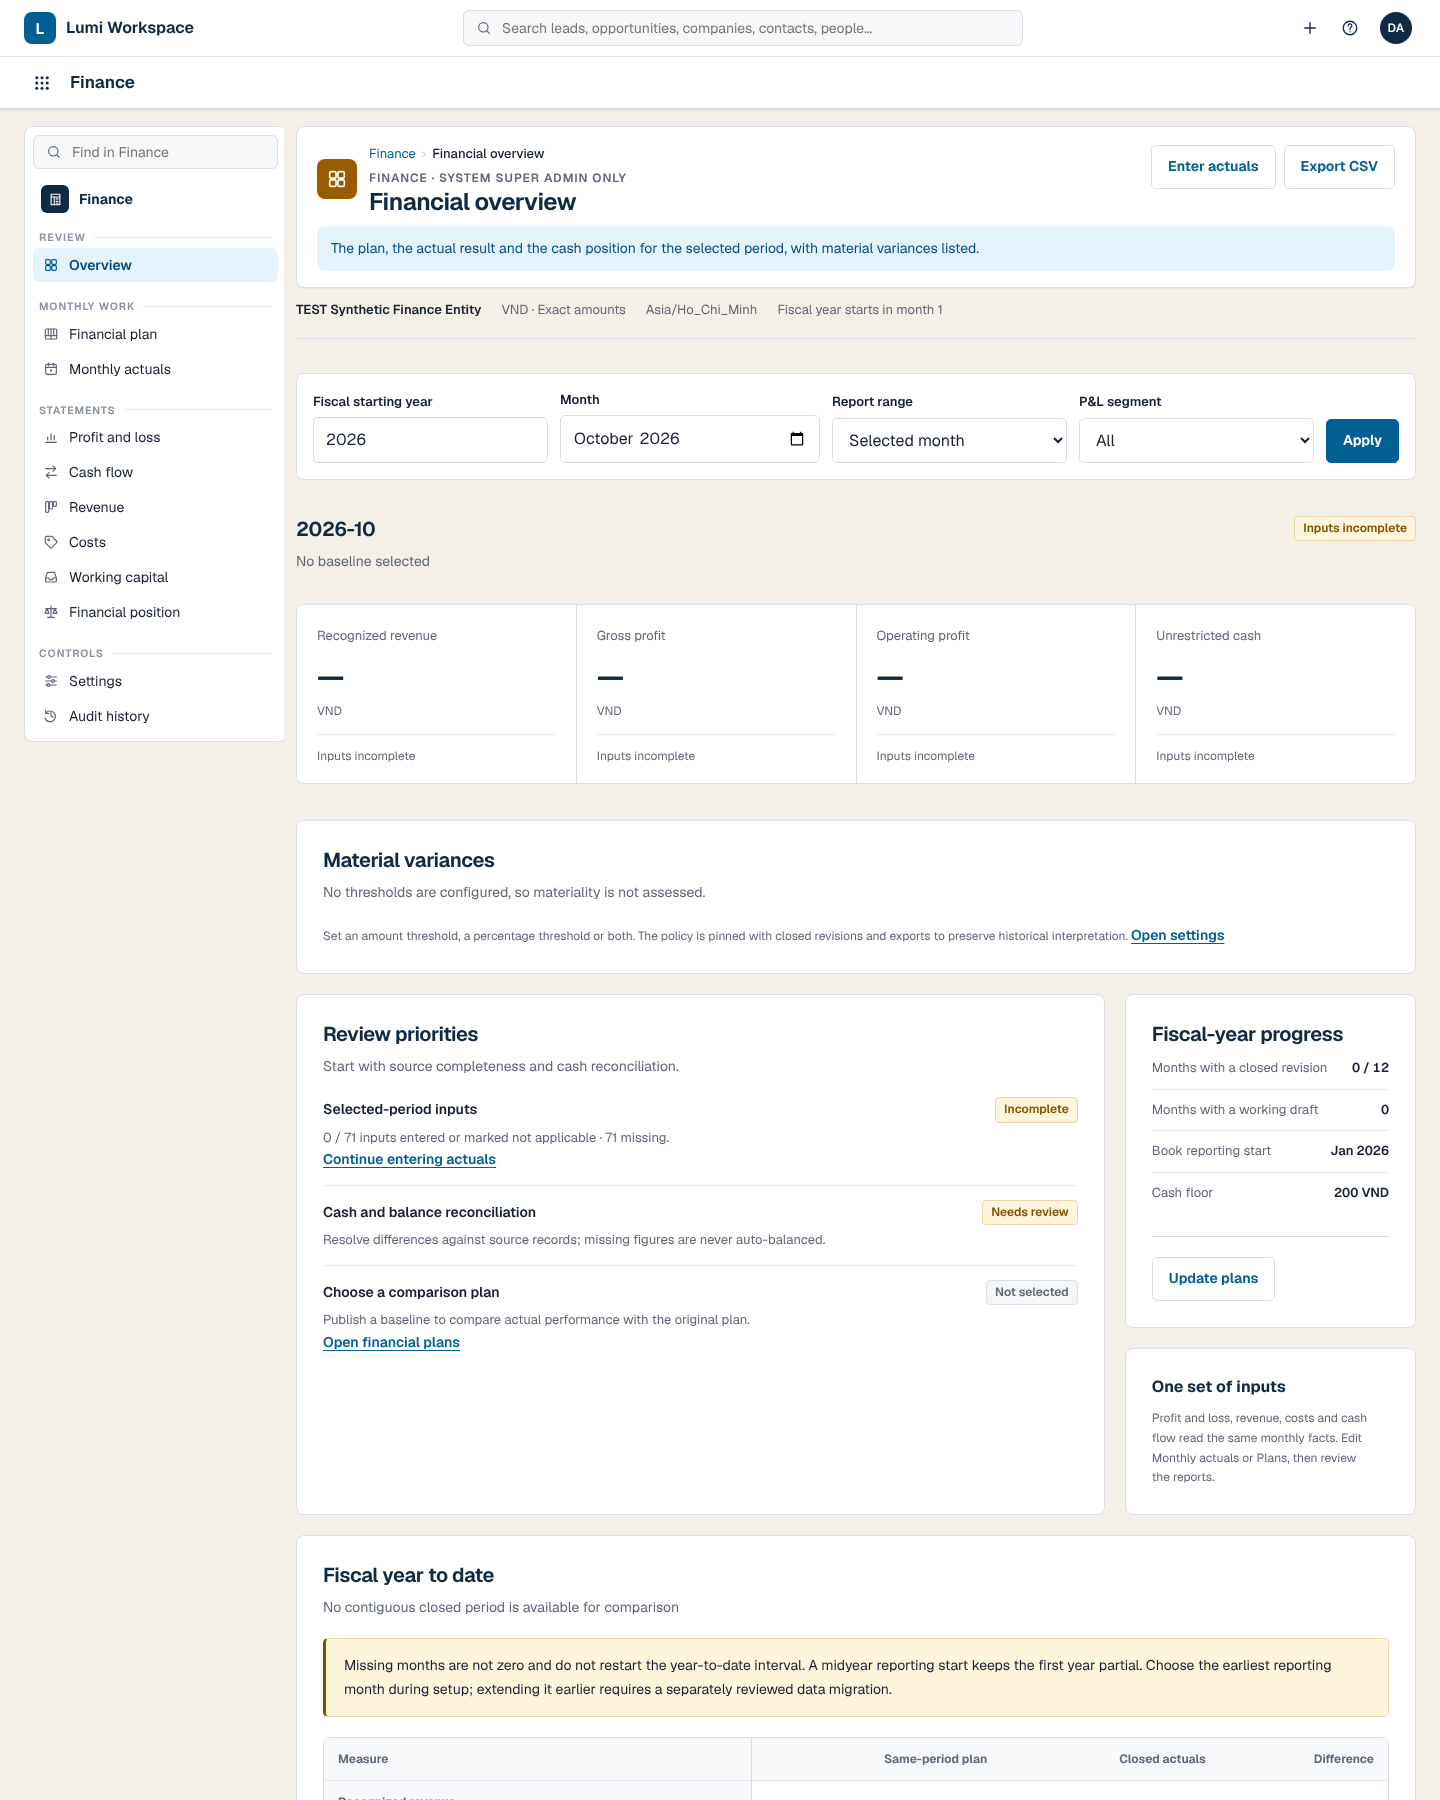
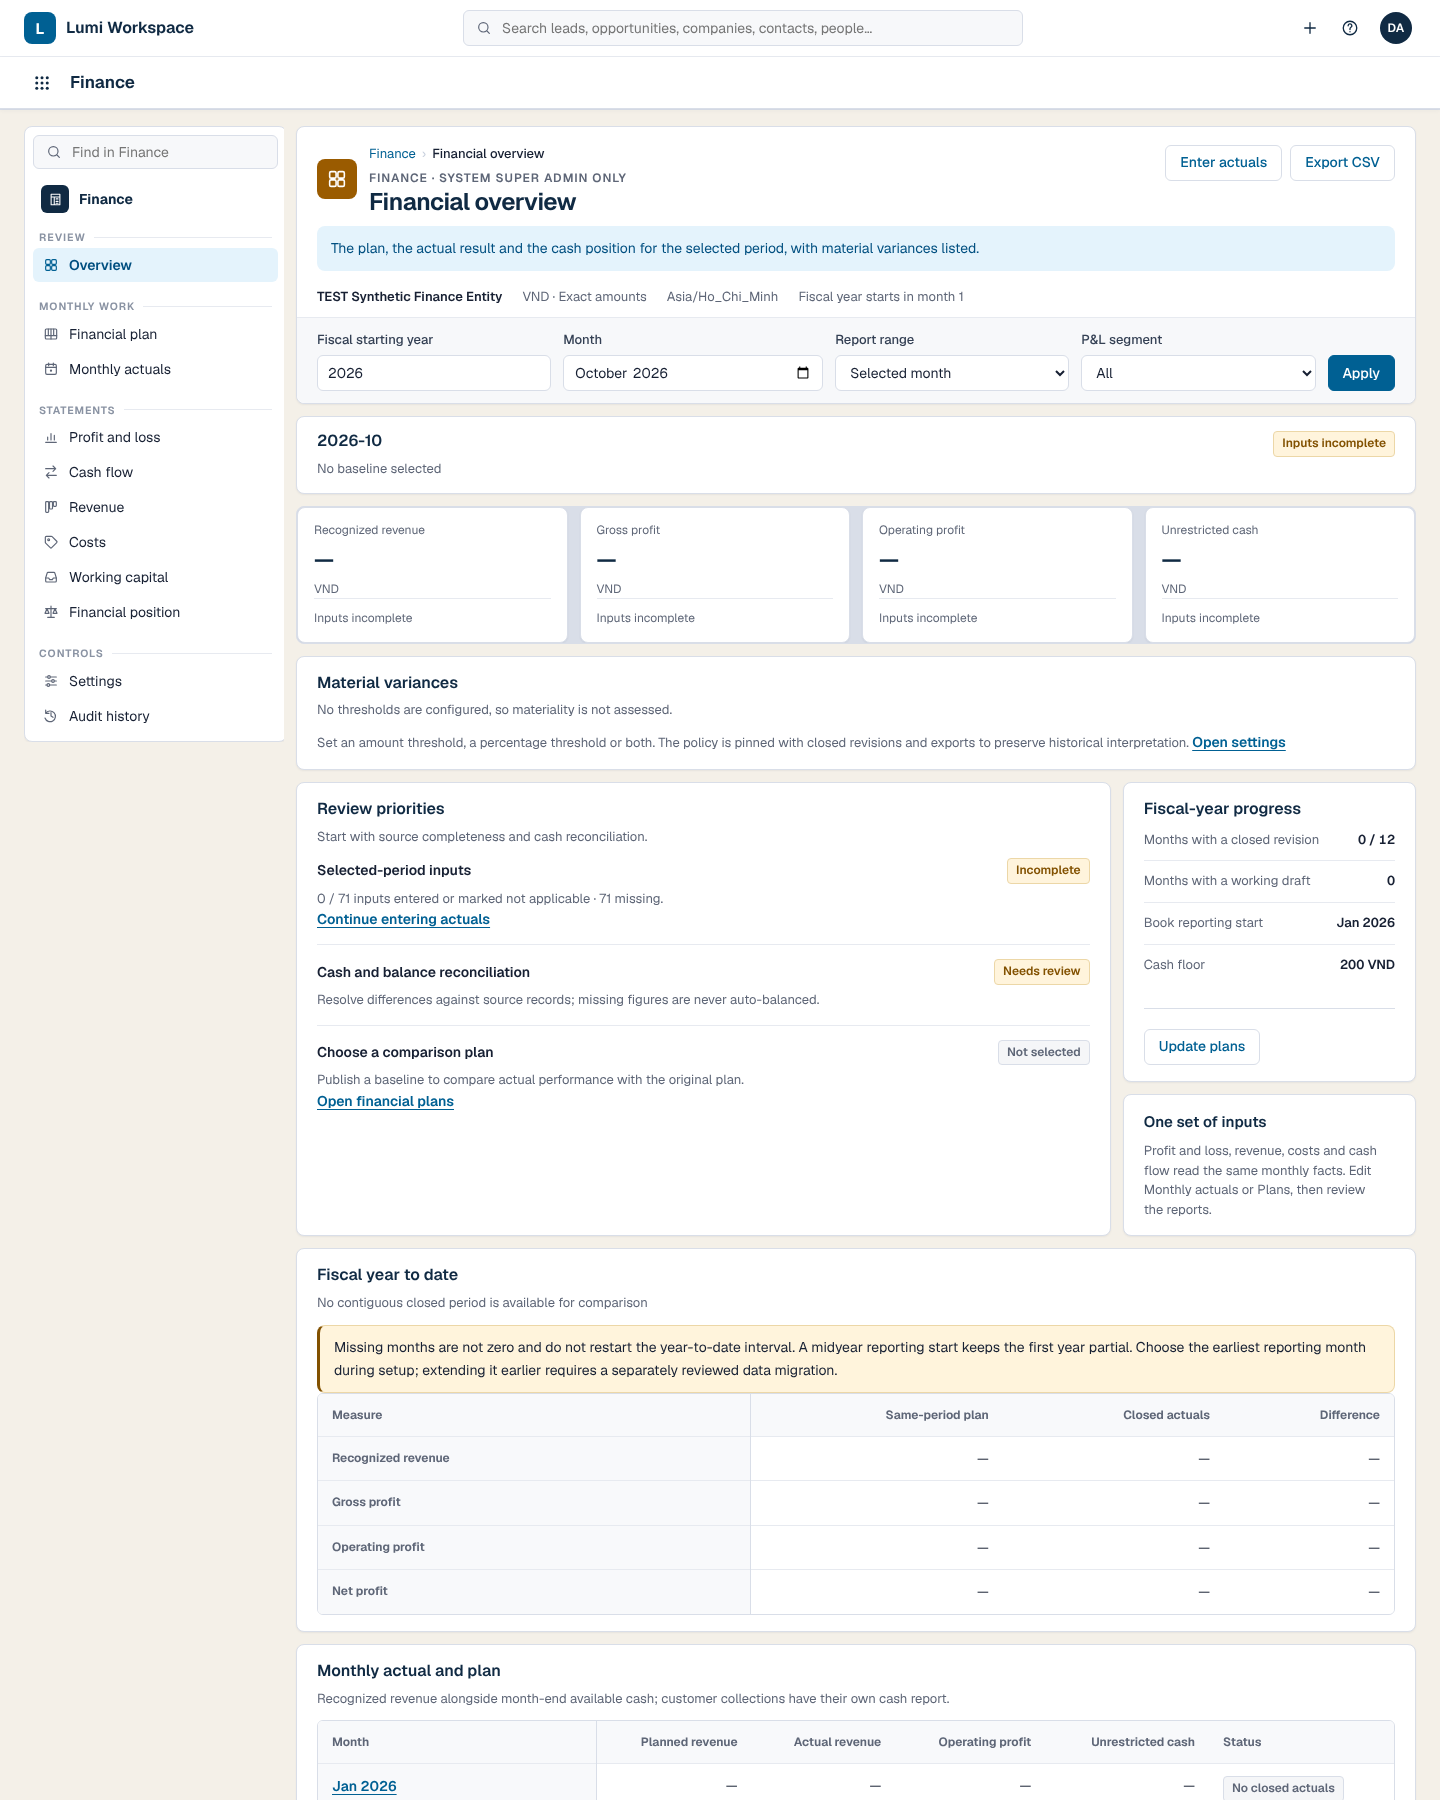
feat(workspace): HRM, Finance and hiring candidate bodies on the kit scale
Integrator review of a37507b: the module bodies kept round-1 scale. One
module layer in record.css puts every HRM, Finance and hiring panel,
heading (16/15px), button (36px), field (40px), notice, row and table on
the kit's scale, and turns any intro line or action row left below the
header into an info note or toolbar panel. HRM pages can pass header
actions, a meta line and a ListToolbar; People uses them with a frozen
DataTable. Job descriptions lose the 30px titles, thick top border and
free paragraphs. Finance moves its scope line and report selection into
the header panel; KPI tiles and section panels use the kit scale.
Candidates filter in the list toolbar under one list-view header.
Fields, routes, permissions and gates are unchanged. Parity shots added.

Claude-Session: https://claude.ai/code/session_014tAzhWoBaDs6EPpE4qVLLr

diff --git a/src/styles/record.css b/src/styles/record.css
@@ -103,16 +103,108 @@
 .ws-setup form.ws-oh-actions, .ws-oh-actions form { display: flex; gap: 8px; align-items: center; margin: 0; }
 .rec-row { display: grid; grid-template-columns: repeat(auto-fit, minmax(min(100%, 340px), 1fr)); gap: 12px; align-items: stretch; }
 
-/* Modules without boards (Tuyển dụng, HRM, Tài chính) */
-.rec-module { display: flex; flex-direction: column; gap: 12px; min-width: 0; }
-.rec-module :is(section.crm-sheet, .md-section, > .crm-sheet) { background: #fff; border: 1px solid #D9DEE8; border-radius: 8px; box-shadow: 0 1px 2px rgba(16, 42, 67, .06); padding: 16px 20px; }
-.rec-module .crm-sheet + .crm-sheet { margin-top: 12px; }
-.rec-module .crm-h2 { font-size: 16px; font-weight: 600; line-height: 1.3; color: #102A43; }
-.rec-module :is(.crm-help, .crm-empty, .crm-row-meta, .crm-list) { font-size: 13px; }
-.rec-module :is(.crm-input, .crm-select) { min-height: 40px; font-size: 15px; }
+/* Modules without boards (Tuyển dụng, HRM, Tài chính): one layer that puts
+   the existing bodies on the kit's scale (workspace.css): white 8px panels,
+   16px panel headings, 14px body, 36px buttons, 40px inputs, kit tables and
+   rows, and no free text below the header. */
+.rec-module { display: flex; flex-direction: column; gap: 12px; min-width: 0; color: #172033; font-size: 14px; line-height: 1.5; }
+.rec-module :is(.crm-sheet, .md-section) { background: #fff; border: 1px solid #D9DEE8; border-radius: 8px; box-shadow: 0 1px 2px rgba(16, 42, 67, .06); padding: 16px 20px; margin: 0; min-width: 0; }
+.rec-module .crm-sheet + .crm-sheet { margin-top: 0; }
+.rec-module .crm-sheet .crm-sheet { box-shadow: none; padding: 12px 14px; }
+.rec-module .crm-grid { gap: 12px; }
+.rec-module :is(.crm-h2, .crm-sheet > h2, .md-section h2) { margin: 0 0 10px; font-size: 16px; font-weight: 600; line-height: 1.3; letter-spacing: 0; color: #102A43; }
+.rec-module :is(.crm-h3, .crm-sheet h3) { margin: 14px 0 6px; font-size: 15px; font-weight: 600; line-height: 1.3; color: #102A43; }
+.rec-module .crm-eyebrow { font-size: 12px; font-weight: 600; letter-spacing: .08em; text-transform: uppercase; color: #5E6677; }
+.rec-module :is(.crm-sheet p, .crm-sheet li, .crm-lede) { font-size: 14px; line-height: 1.5; }
+.rec-module :is(.crm-meta, .crm-help, .crm-empty, .crm-row-meta) { font-size: 13px; color: #5E6677; }
+.rec-module .crm-count { font-size: 12px; }
+/* Buttons at the kit's size: outline by default, filled for the main action. */
+.rec-module .crm-button { height: 36px; min-height: 36px; padding: 0 14px; border-radius: 6px; font-size: 14px; font-weight: 500; line-height: 1; box-shadow: none; }
+.rec-module .crm-button.secondary { background: #fff; border: 1px solid #C8D0DE; color: #006093; }
+.rec-module .crm-button.secondary:hover { background: #F7F8FA; }
+.rec-module .crm-button.small { height: 30px; min-height: 30px; padding: 0 10px; font-size: 13px; }
+.rec-module .crm-button.danger { background: #fff; border: 1px solid #EBA98C; color: #B42318; }
+.rec-module .crm-actions { gap: 8px; }
+/* Fields as in the kit's form grid. */
+.rec-module :is(.crm-field > label, .crm-label, .crm-fieldset > legend) { font-size: 13px; font-weight: 500; line-height: 1.2; color: #344054; }
+.rec-module :is(.crm-input, .crm-select) { height: 40px; min-height: 40px; padding: 0 10px; border: 1px solid #C8D0DE; border-radius: 6px; font-size: 15px; }
+.rec-module .crm-textarea { min-height: 72px; padding: 8px 10px; border: 1px solid #C8D0DE; border-radius: 6px; font-size: 15px; }
+.rec-module .crm-form-grid { gap: 14px 20px; }
+.rec-module .crm-check { font-size: 14px; }
+/* Notices: compact alert bars. */
+.rec-module .crm-notice { margin: 0; padding: 10px 14px; border-radius: 8px; font-size: 14px; line-height: 1.5; }
+.rec-module .crm-notice strong { font-size: 14px; }
+/* Lists as kit rows; tables as kit tables. */
+.rec-module .crm-list { gap: 0; }
+.rec-module .crm-row { padding: 10px 0; border-bottom: 1px solid #E7EAF0; font-size: 14px; }
+.rec-module .crm-row:last-child { border-bottom: 0; }
+.rec-module .crm-row strong, .rec-module .crm-row-title { font-size: 14px; font-weight: 600; color: #102A43; }
+.rec-module :is(.crm-table, .crm-grid-table) { font-size: 14px; }
+.rec-module :is(.crm-table, .crm-grid-table) th { background: #F7F8FA; color: #344054; font-size: 12px; font-weight: 600; line-height: 1.2; text-transform: uppercase; letter-spacing: .04em; padding: 10px; }
+.rec-module :is(.crm-table, .crm-grid-table) td { padding: 10px; }
+.rec-module .crm-facts dt { font-size: 12px; color: #5E6677; text-transform: none; letter-spacing: 0; }
+.rec-module .crm-facts dd { font-size: 15px; font-weight: 600; color: #102A43; }
+.rec-module .crm-disclosure > summary { font-size: 14px; font-weight: 500; }
+.rec-module .crm-badge { font-size: 12px; padding: 3px 8px; border-radius: 10px; }
+/* Record tabs inside HRM (person profile) drawn like the kit's tabs. */
+.rec-module .crm-tabs { display: flex; flex-wrap: wrap; gap: 20px; margin: 0; padding: 0 20px; background: #fff; border: 1px solid #D9DEE8; border-radius: 8px; }
+.rec-module .crm-tabs a { padding: 13px 2px 11px; border-bottom: 3px solid transparent; color: #5E6677; font-size: 14px; font-weight: 500; text-decoration: none; }
+.rec-module .crm-tabs a[aria-current] { border-bottom-color: #006093; color: #102A43; font-weight: 600; }
+/* Nothing floats below the header: a stray intro line becomes the blue info
+   note and a stray action row becomes a toolbar panel. */
+.rec-module > :is(p.crm-meta, p.crm-help, p.crm-lede) { margin: 0; padding: 12px 14px; border-radius: 8px; background: #E4F3FC; color: #004F80; font-size: 14px; line-height: 1.5; }
+.rec-module > :is(div.crm-actions, form.crm-actions) { margin: 0; padding: 12px 20px; background: #fff; border: 1px solid #D9DEE8; border-radius: 8px; box-shadow: 0 1px 2px rgba(16, 42, 67, .06); }
 .rec-module .ws-rec .crm-lede { font-size: 13px; color: #5E6677; margin: 4px 0 0; }
+
+/* Tài chính: its own fn-* blocks on the same scale. */
+.finance.rec-module { gap: 12px; }
+.finance.rec-module .fn-sheet { padding: 16px 20px; border: 1px solid #D9DEE8; border-radius: 8px; box-shadow: 0 1px 2px rgba(16, 42, 67, .06); margin: 0; }
+.finance.rec-module :is(.fn-sheet h2, .fn-sheet-head h2) { font-size: 16px; font-weight: 600; line-height: 1.3; letter-spacing: 0; }
+.finance.rec-module .fn-sheet h3 { font-size: 15px; font-weight: 600; margin: 0 0 8px; }
+.finance.rec-module :is(.fn-sheet-head p, .fn-sheet > p) { font-size: 13px; line-height: 1.5; }
+.finance.rec-module .fn-sheet-head { margin-bottom: 12px; }
+.finance.rec-module :is(.fn-stack, .fn-layout) { gap: 12px; }
+.finance.rec-module .fn-layout + .fn-layout, .finance.rec-module .fn-stack > * + * { margin-top: 0; }
+.finance.rec-module .fn-kpis { gap: 12px; align-items: stretch; }
+.finance.rec-module .fn-kpi { padding: 14px 16px; border: 1px solid #D9DEE8; border-radius: 8px; background: #fff; box-shadow: 0 1px 2px rgba(16, 42, 67, .06); display: flex; flex-direction: column; }
+.finance.rec-module .fn-kpi-label { margin: 0 0 8px; font-size: 12px; }
+.finance.rec-module .fn-kpi-value { font-size: 22px; letter-spacing: -.01em; }
+.finance.rec-module .fn-kpi-meta { margin-top: auto; padding-top: 10px; }
+.finance.rec-module .fn-button { min-height: 36px; padding: 0 14px; border-radius: 6px; font-size: 14px; font-weight: 500; }
+.finance.rec-module .fn-button.small { min-height: 30px; padding: 0 10px; font-size: 13px; }
+.finance.rec-module :is(.fn-input, .fn-select) { min-height: 40px; padding: 0 10px; border-radius: 6px; font-size: 15px; }
+.finance.rec-module .fn-textarea { border-radius: 6px; font-size: 15px; }
+.finance.rec-module .fn-field > :is(label, .fn-label) { font-size: 13px; font-weight: 500; color: #344054; }
+.finance.rec-module .fn-notice { margin: 0; padding: 10px 14px; border-radius: 8px; font-size: 14px; }
+.finance.rec-module .fn-form-section > legend { font-size: 15px; font-weight: 600; padding-bottom: 10px; }
+.finance.rec-module .fn-disclosure > summary { padding: 12px 14px; font-size: 14px; }
+.finance.rec-module .fn-empty { padding: 24px 20px; border: 1px solid #D9DEE8; border-radius: 8px; background: #fff; }
+.finance.rec-module .fn-empty h2 { font-size: 18px; letter-spacing: 0; }
+.finance.rec-module .fn-empty p { font-size: 14px; }
+.finance.rec-module .fn-footnote { margin: 0; padding: 12px 14px; border-radius: 8px; background: #E4F3FC; color: #004F80; font-size: 13px; }
+/* The scope line and the report selection sit inside the header panel as
+   its meta line and list toolbar. */
+.ws-rec .fn-scope { margin: 0; padding: 0 20px 10px; border: 0; font-size: 13px; color: #5E6677; }
+.ws-rec .fn-toolbar { margin: 0; padding: 12px 20px; border: 0; border-top: 1px solid #E7EAF0; border-radius: 0 0 8px 8px; background: #F7F8FA; box-shadow: none; display: flex; flex-wrap: wrap; gap: 10px 12px; align-items: flex-end; }
+.ws-rec .fn-toolbar .fn-field > label { font-size: 12px; font-weight: 500; color: #5E6677; }
+.ws-rec .fn-toolbar :is(.fn-input, .fn-select) { min-height: 36px; height: 36px; padding: 0 10px; font-size: 14px; border-radius: 6px; }
+.ws-rec .fn-toolbar .fn-button { min-height: 36px; }
 
 @media (max-width: 900px) {
   .rec-fields, .rec-cv-cols { grid-template-columns: minmax(0, 1fr); }
   .rec-body { padding-left: 14px; padding-right: 14px; }
 }
+/* Finance: the period heading above the KPI tiles and the month strip on
+   Actuals are panels too. */
+.finance.rec-module > :is(.fn-sheet-head, .fn-periods) { margin: 0; padding: 14px 20px; background: #fff; border: 1px solid #D9DEE8; border-radius: 8px; box-shadow: 0 1px 2px rgba(16, 42, 67, .06); }
+.finance.rec-module > .fn-sheet-head h2 { font-size: 16px; font-weight: 600; letter-spacing: 0; }
+/* Hiring candidates: filters in the list toolbar, stage counts as a chip row. */
+.rec-lfilter { display: flex; flex-wrap: wrap; align-items: flex-end; gap: 8px 10px; }
+.rec-lfilter .crm-field { display: flex; flex-direction: column; gap: 4px; }
+.rec-lfilter .crm-field > label { font-size: 12px; color: #5E6677; font-weight: 500; }
+.rec-lfilter :is(.crm-select, .crm-input) { height: 32px; min-height: 32px; padding: 0 8px; font-size: 14px; border: 1px solid #C8D0DE; border-radius: 6px; width: auto; }
+.rec-lfilter .crm-actions { display: flex; gap: 8px; align-items: center; margin: 0; }
+.rec-stages { padding: 0 20px 12px; }
+.rec-stages .crm-stages { margin: 0; }
+.finance.rec-module .fn-kpis { margin: 0; }
+.ws-lv > .crm-empty, .ws-rec > .crm-empty { margin: 0; padding: 12px 20px; }

diff --git a/src/styles/hrm-job-descriptions.css b/src/styles/hrm-job-descriptions.css
@@ -1,41 +1,42 @@
 /* Internal role descriptions use the existing Workspace paper, ink and focus tokens. */
 .jd-intro { max-width: 48rem; margin: -8px 0 24px; font-size: 18px; line-height: 1.6; color: var(--crm-slate); }
-.jd-catalog { display: grid; grid-template-columns: repeat(auto-fit, minmax(min(100%, 30rem), 1fr)); gap: 24px; }
-.jd-card { margin: 0; border-top: 3px solid var(--crm-blue); }
+.jd-catalog { display: grid; grid-template-columns: repeat(auto-fit, minmax(min(100%, 30rem), 1fr)); gap: 12px; }
+.jd-card { margin: 0; display: flex; flex-direction: column; gap: 8px; }
+.jd-card > .crm-button { align-self: flex-start; margin-top: auto; }
 .jd-card + .jd-card { margin-top: 0; }
 .jd-meta-line { display: flex; align-items: center; gap: 8px 16px; flex-wrap: wrap; }
-.jd-card-title { margin: 20px 0 8px; max-width: 40rem; font-size: clamp(24px, 2.5vw, 30px); line-height: 1.25; letter-spacing: -.02em; }
+.jd-card-title { margin: 4px 0 0; font-size: 16px; font-weight: 600; line-height: 1.3; }
 .jd-card-title a { color: var(--crm-navy); text-decoration: none; }
 .jd-card-title a:hover { color: var(--crm-blue); text-decoration: underline; text-underline-offset: 4px; }
-.jd-subtitle { margin: 14px 0 12px; color: var(--crm-navy); font-weight: 600; font-size: 18px; line-height: 1.55; }
-.jd-summary { max-width: 60rem; margin: 12px 0 20px; color: var(--crm-ink); font-size: 17px; line-height: 1.7; }
-.jd-card-facts, .jd-facts { display: grid; gap: 16px 24px; margin: 24px 0; }
+.jd-subtitle { margin: 0; color: #344054; font-weight: 500; font-size: 14px; line-height: 1.5; }
+.jd-summary { margin: 0; color: var(--crm-ink); font-size: 14px; line-height: 1.55; }
+.jd-card-facts, .jd-facts { display: grid; gap: 10px 24px; margin: 8px 0; }
 .jd-card-facts { grid-template-columns: repeat(2, minmax(0, 1fr)); max-width: 48rem; }
 .jd-facts { grid-template-columns: repeat(4, minmax(0, 1fr)); margin-bottom: 0; padding-top: 20px; border-top: 1px solid var(--crm-line); }
-.jd-card-facts dt, .jd-facts dt { margin-bottom: 4px; color: var(--crm-slate); font-size: 13px; }
-.jd-card-facts dd, .jd-facts dd { margin: 0; color: var(--crm-navy); font-size: 16px; line-height: 1.55; }
+.jd-card-facts dt, .jd-facts dt { margin-bottom: 2px; color: var(--crm-slate); font-size: 12px; }
+.jd-card-facts dd, .jd-facts dd { margin: 0; color: var(--crm-navy); font-size: 14px; font-weight: 600; line-height: 1.45; }
 .jd-review-note { max-width: 56rem; margin: 24px 0 0; color: var(--crm-slate); font-size: 16px; line-height: 1.6; }
 .jd-back { margin: -10px 0 20px; }
 .jd-back a { display: inline-flex; align-items: center; min-height: 44px; color: var(--crm-blue); text-underline-offset: 3px; }
 .jd-role-summary { margin-bottom: 24px; }
-.jd-layout { display: grid; grid-template-columns: minmax(12rem, 15rem) minmax(0, 1fr); gap: 24px; align-items: start; }
-.jd-toc { position: sticky; top: 132px; max-height: calc(100vh - 156px); overflow-y: auto; padding: 20px; }
+.jd-layout { display: grid; grid-template-columns: minmax(12rem, 15rem) minmax(0, 1fr); gap: 12px; align-items: start; }
+.jd-toc { position: sticky; top: 132px; max-height: calc(100vh - 156px); overflow-y: auto; padding: 16px; }
 .jd-toc ol { list-style: decimal-leading-zero; margin: 0; padding-left: 26px; }
 .jd-toc li { color: var(--crm-slate); padding-left: 2px; font-size: 13px; }
-.jd-toc a { display: block; min-height: 44px; padding-block: 9px; color: var(--crm-navy); font-size: 16px; line-height: 1.6; text-decoration: none; }
+.jd-toc a { display: block; min-height: 36px; padding-block: 7px; color: var(--crm-navy); font-size: 14px; line-height: 1.5; text-decoration: none; }
 .jd-toc a:hover { color: var(--crm-blue); text-decoration: underline; text-underline-offset: 3px; }
-.jd-body.crm-sheet { margin-top: 0; padding: clamp(20px, 3vw, 40px); }
-.jd-section + .jd-section { margin-top: 36px; padding-top: 32px; border-top: 1px solid var(--crm-line); }
-.jd-section h2 { margin: 0 0 18px; color: var(--crm-navy); font-size: clamp(21px, 2.1vw, 26px); line-height: 1.35; letter-spacing: -.015em; scroll-margin-top: 144px; }
-.jd-section p, .jd-section li { font-size: 16px; line-height: 1.8; }
+.jd-body.crm-sheet { margin-top: 0; padding: 16px 20px; }
+.jd-section + .jd-section { margin-top: 20px; padding-top: 16px; border-top: 1px solid var(--crm-line); }
+.jd-section h2 { margin: 0 0 10px; color: var(--crm-navy); font-size: 16px; font-weight: 600; line-height: 1.3; letter-spacing: 0; scroll-margin-top: 144px; }
+.jd-section p, .jd-section li { font-size: 14px; line-height: 1.6; }
 .jd-section p { margin: 0 0 16px; }
 .jd-section ul { margin: 0; padding-left: 22px; }
-.jd-section li { padding-left: 4px; margin-bottom: 12px; }
+.jd-section li { padding-left: 4px; margin-bottom: 6px; }
 .jd-section > :last-child { margin-bottom: 0; }
 .jd-table-wrap { max-width: 100%; overflow-x: auto; border: 1px solid var(--crm-line); border-radius: 4px; }
-.jd-table-wrap table { width: 100%; min-width: 35rem; border-collapse: collapse; font-size: 16px; line-height: 1.6; }
-.jd-table-wrap th, .jd-table-wrap td { padding: 14px 16px; vertical-align: top; text-align: left; border-bottom: 1px solid var(--crm-line); }
-.jd-table-wrap thead th { background: var(--crm-paper); color: var(--crm-navy); font-weight: 650; }
+.jd-table-wrap table { width: 100%; min-width: 35rem; border-collapse: collapse; font-size: 14px; line-height: 1.5; }
+.jd-table-wrap th, .jd-table-wrap td { padding: 10px 12px; vertical-align: top; text-align: left; border-bottom: 1px solid var(--crm-line); }
+.jd-table-wrap thead th { background: #F7F8FA; color: #344054; font-size: 12px; font-weight: 600; text-transform: uppercase; letter-spacing: .04em; }
 .jd-table-wrap tbody th { width: 23%; color: var(--crm-navy); font-weight: 600; }
 .jd-table-wrap tr:last-child th, .jd-table-wrap tr:last-child td { border-bottom: 0; }
 .jd-section .jd-table-hint { color: var(--crm-slate); font-size: 13px; line-height: 1.6; margin-bottom: 8px; }
